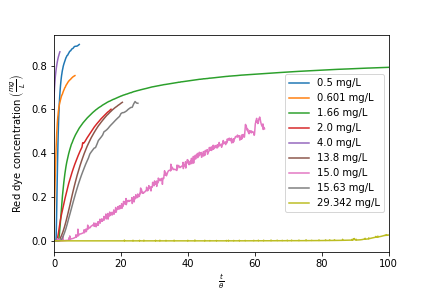
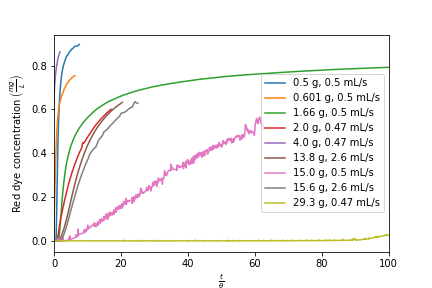
add graphs to document

Changed region(s): [[0.6019, 0.25, 0.9028, 0.75]]

diff --git a/Examples/Adsorption.md b/Examples/Adsorption.md
@@ -104,7 +104,7 @@ mylegend =[]
 for i in range(np.size(filenames)):
   if (metadata['carbon (g)'][i] != 0):
     plt.plot(time_data[i]/HRT[i] - Tubing_HRT[i]/HRT[i], C_data[i]/C_0,'-');
-    mylegend.append(str(metadata['carbon (g)'][i]) + ' mg/L')
+    mylegend.append(str(ut.round_sf(metadata['carbon (g)'][i],3)) + ' g, ' + str(ut.round_sf(metadata['flow (mL/s)'][i],2)) + ' mL/s')
 
 plt.xlabel(r'$\frac{t}{\theta}$');
 plt.xlim(right=100,left=0);
@@ -114,8 +114,12 @@ plt.savefig('Examples/images/Activated_carbon')
 plt.show()
 ```
 
-The tracer curve for the columns without carbon is shown below.
+The tracer curves for the columns without carbon is shown below.
 
- ![graph](https://github.com/monroews/CEE4530/raw/master/Examples/images/Gran.png)
+ ![graph](https://github.com/monroews/CEE4530/raw/master/Examples/images/Sand_column.png)
 
-Figure 1. Gran titration of a sample.
+Figure 1. Tracer curves for sand columns at two different flow rates. It is likely that different setups had different amounts of tubing volume that influenced how long it took for the tracer to reach the detector.
+
+ ![graph](https://github.com/monroews/CEE4530/raw/master/Examples/images/Activated_carbon.png)
+
+ Figure 2. Tracer curves for columns with different masses of activated carbon.
